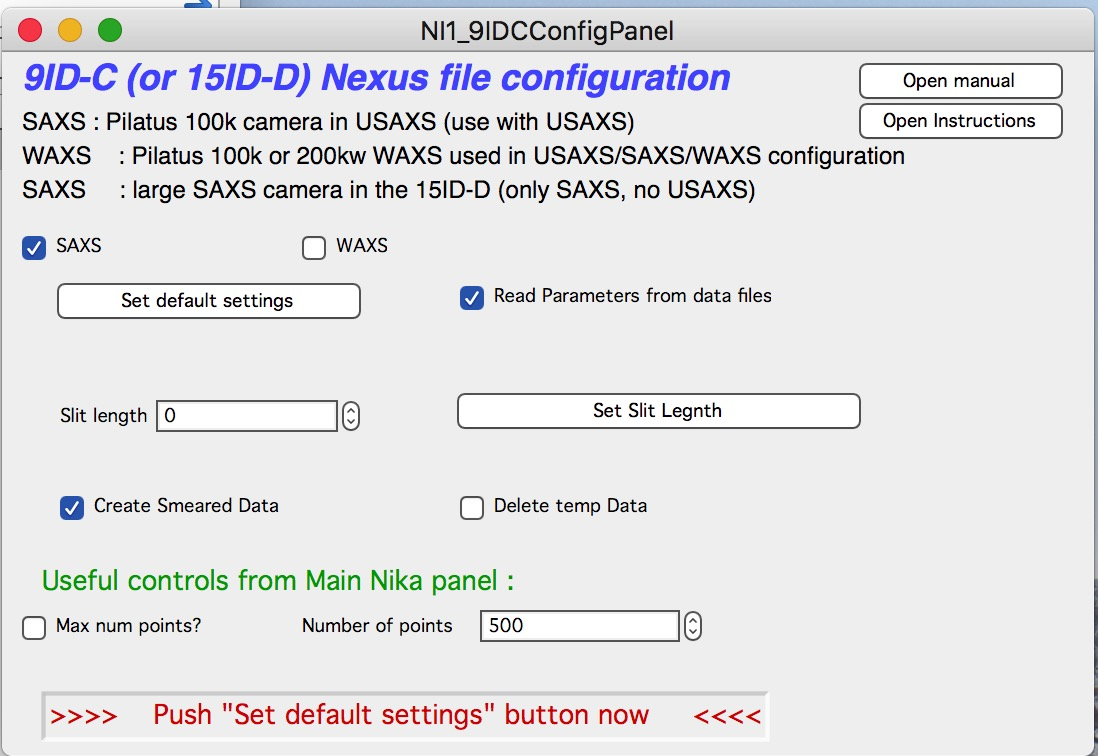
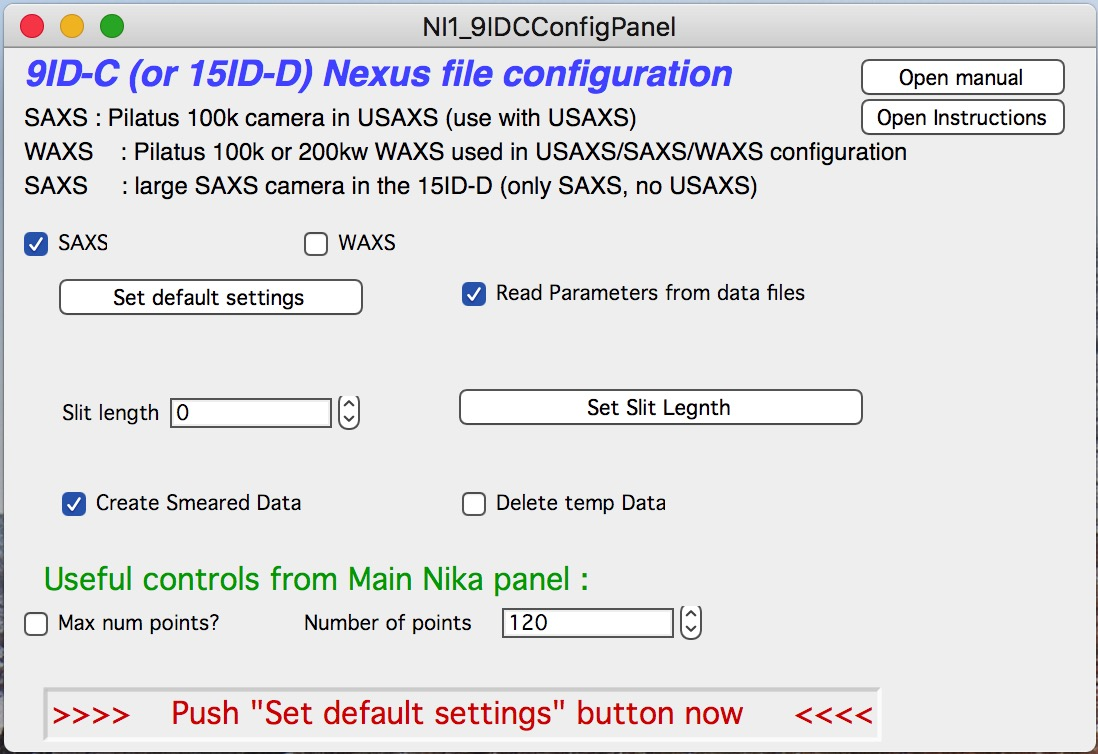
Indra manual
Added SAXS, WAXS and data merge to Indra manual

diff --git a/docs/source/Nika/Main.rst b/docs/source/Nika/Main.rst
@@ -23,15 +23,15 @@ Selecting data
 
 Nika can load number of different **Image types** - aka: file formats, file types - usually well described by file extension (e.g., tif). These are selected by "**Image type**" popup menu in top right corner. If appropriate file type is not found in the “Image type” popup menu, you will have to contact me so I can develop and add appropriate loader for your specific data. Note, that most data formats are binary data with some header, and if you can get description of your data format you can often use General Binary reader.
 
-Select appropriate type of data you have and then push “Select data path” button, dialog is presented, in which path to folder on the hard drive containing 2D images is selected. FInd the local path to data using this standard Igor dialog. and push OK when done.
+Select appropriate type of data you have and then push “Select data path” button, dialog is presented, in which path to folder on the hard drive containing 2D images is selected. Find the local path to data using this standard Igor dialog. and push OK when done.
 
-NOTE the “**Calibrated 2D data**?” checkbox. If selected, Nika expects 2D calibrated data – fully normalized and corrected data provided as one of the 2D formats, basically 2D image of Intensity, Q (vector), and uncertainity. Number of options is being current developed, the code currently handles EQSAXS (ORNL) and canSAS/Nexus. This part is under heavy development at this time, expect changes…
+NOTE the “**Calibrated 2D data**?” checkbox. If selected, Nika expects 2D calibrated data – fully normalized and corrected data provided as one of the 2D formats, basically 2D image of Intensity, Q (vector), and uncertainty. Number of options is being current developed, the code currently handles EQSAXS (ORNL) and canSAS/Nexus. This part is under heavy development at this time, expect changes…
 
 When valid path is selected, the Igor will check the folder and list all files of appropriate type (assuming the files have extensions) in the ListBox below the button.
 
 Here user can select one files, more files (by holding down shift key on Windows) and continuing selection (using the two pull down menus below the list Box)…
 
-Note, that from Nika ver. 1.66 Listoboxes have right click actions and users can refresh content and perform some functions from right click.
+Note, that from Nika ver. 1.66 Listboxes have right click actions and users can refresh content and perform some functions from right click.
 
 Use the “Match” field to mask the file names with Regular expression. To match part of the name, just use the string needed - so matching samples with \_15s in name, just add \_15s in the field. Regular expressions are very powerful, read on line how to use them.
 
@@ -52,7 +52,7 @@ Sort order
 
 Decides how the data are listed in the listbox. Options:
 
--  *None* – list as provided by OS.
+- *None* – list as provided by OS.
 - *Sort* – the old method. Alphabetical (but numerical order may get wrong)
 - *Sort2* – alphabetical, but taking care of sorting out smaller number before larger ones.
 - *\_001.* – this one assumes, that end of file name, before extension, is number. Before number you need to have “\_” and after number must be “.” followed by extension.
@@ -70,10 +70,10 @@ Using RegEx now. This is Grep language using regular expressions, very powerful.
 Side buttons
 ------------
 
-There are few buttnos next to the Listbox where user can select the data:
+There are few buttons next to the Listbox where user can select the data:
 
 Refresh:
- This button was removed in 1.66. The refresh and some other functionality was added to right click for most Listoboxes in Nika.
+ This button was removed in 1.66. The refresh and some other functionality was added to right click for most Listboxes in Nika.
 
 Save/Load Config
 ~~~~~~~~~~~~~~~~
@@ -123,7 +123,7 @@ Create Movie
 
 This opens panel, which is interface for ability to create movie from either 2D images or 1D lineouts…
 
-Note: The way this tool is designed, image is added every time any of the Convert butons is called. It is possible to use this tool to create movie from RAW data only manually (by manually adding each frame) when user wants to load the data inusing the “Ave & Display sel. files” button. Using this button you cannot use Automatic add function.
+Note: The way this tool is designed, image is added every time any of the Convert buttons is called. It is possible to use this tool to create movie from RAW data only manually (by manually adding each frame) when user wants to load the data in using the “Ave & Display sel. files” button. Using this button you cannot use Automatic add function.
 
 But the same result you can achieve by using convert buttons and simply not converting the data any way (not checking anything on “Main” tab and any of the “Sectors”, “Prev” and “LineProf” tabs. In this case you can add frames automatically, which is probably more useful…
 
@@ -146,7 +146,7 @@ The panel walks user through the steps necessary…
    c. 1D data. This is graph of the lineouts created by the code. NOTE: if you are creating more than one lineout from each image (like when using multiple sectors), all of these may be subsequently used! This may be good (movie of sequence of sectors on one image) or bad (for movies from many images). There is no way of skipping and using only specific sectors. Use Hook function to create that…
    You have relatively lot of controls of the graph, same as in the above options 1 and 2, as the data for this graph are a separate copy of your last data. When the old ones are overwritten, the new ones are “swapped” into the graph and replaced without modifications to the graph. So the graph should stay without major changes, unless set that way. For example, if Axis are set to auto scale, they may change. But if they are set to fixed start/end, they will stay fixed. At least I hope .
 
-   d. Use main 2D image. This one simply uses the Main 2D image. Seems very good choice - BUT: that image is recreated every time from scratch so there are very few controls available to user – you either like it and then use it, or you cannot use this method. You should, of course, use the controls on main panel to modify the image – like use RAwor Processed data, display sectors, beam center, colors, or Image with Q axes… That works, but you cannot control other things, such as zoom range etc.
+   d. Use main 2D image. This one simply uses the Main 2D image. Seems very good choice - BUT: that image is recreated every time from scratch so there are very few controls available to user – you either like it and then use it, or you cannot use this method. You should, of course, use the controls on main panel to modify the image – like use RAW or Processed data, display sectors, beam center, colors, or Image with Q axes… That works, but you cannot control other things, such as zoom range etc.
 
    e. Use user Hook function… This is advanced method. Here you can do whatever you want to create the image you want to append, just call the function: Movie\_UserHookFunction and if it exists, it will be called. This function MUST generate graph/image and leave it as the top image. This top image is added to the movie when called… Note: while this is advanced programming, this is way to get really what you want into the movie… Below is commented out example (present in the code also) which pulls up the main 2 D image and prints a note. You can add here any other formatting which you want to do or use…
 
@@ -190,7 +190,7 @@ Following dialog on Movie file control:
        :align: center
        :width: 380px
 
-Is Igor panel and here are your last chances to control what and how it gets created… I have limited information on what works best, so try this your self… Keep in mind, that while on PC you can create either mov file (Quicktime) or AVI file, it may be challenge to get avi files play on Mac. I suspect that considering the avi mess in video formats, you may have much better chance to play QUicktime movies (mov)… But there is no guarantee on unknown machines, that they will have Apple quicktime.
+Is Igor panel and here are your last chances to control what and how it gets created… I have limited information on what works best, so try this your self… Keep in mind, that while on PC you can create either mov file (Quicktime) or AVI file, it may be challenge to get avi files play on Mac. I suspect that considering the avi mess in video formats, you may have much better chance to play Quicktime movies (mov)… But there is no guarantee on unknown machines, that they will have Apple quicktime.
 
 Note, that every time Nika adds frame to the movie, it prints in the history area:
 

diff --git a/docs/source/Indra/MergeData.rst b/docs/source/Indra/MergeData.rst
@@ -10,29 +10,78 @@
 Merge USAXS/SAXS/WAXS data
 ==========================
 
-When you collect data on USAXS instrument, your data are saved in folders related to your "spec" file name. Spec file is where instrument makes various records. The file name is created by adding MM_DD_ (month_day_) to the name staff provides, typically to user name. When you collect USAXS data, a folder with the same name with appended "_usaxs" is created. For SAXS data we create folder with the same name with "_saxs" and for  WAXS with "_waxs". See below in the figure:
+When you reduce USAXS/SAXS/WAXS data, your data are saved in Igor folders related to your sample name.  USAXS data in root\:USAXS\:Samplename and SAXS data are in  root\:SAXS\:Samplename_u (or Samplename_270_30). To see inside of the current Igor experiment, use DataBrowser (ctrl-B or cmd-B). See below in the figure:
 
-.. image:: media/USAXSComputerDataArrangement.jpg
+.. image:: media/DataMerge1.jpg
         :align: center
-        :width: 480px
+        :width: 380px
 
-After you reduce data from USAXS instrument, you will have in your Igor experiment data arranged in data folders also - in this case you will have USAXS data in root\:USAXS\:Samplename.
-To see inside of the current Igor experiment, use DataBrowser (ctrl-B or cmd-B).
-
-.. image:: media/USAXSComputerDataArrangement.jpg
-        :align: center
-        :width: 480px
+Next we need to merge USAXS and SAXS data together. We will use Irena package tool "Merge two datasets" :ref:`Merge two datasets <data_merge>`.
 
 
 .. index::
-    USAXS data panel
+    USAXS-SAXS data merge
 
-Data reduction panel
---------------------
+Data Merging panel
+------------------
 
-Select "Load USAXS macros" from "Macros" menu. This will create "USAXS" menu and also open "Read me" notebook. Note, that it will take some time to compile the code, depending on the speed of your computer. Select "Import and reduced USAXS data" from the "USAXS menu".
+If needed, load Irena package by selecting "Load Irena SAS macros" from "Macros" menu. Select "Data Manipulation" from "SAS" menu, and from that submenu select "Merge two data sets".
 
-.. Figure:: media/DataReduction1.jpg
+
+.. Figure:: media/DataMerge2.jpg
+        :align: left
+        :width: 500px
+        :Figwidth: 820px
+
+This will load large panel:
+
+.. Figure:: media/DataMerge3.jpg
         :align: left
         :width: 800px
         :Figwidth: 820px
+
+To merge desmeared USAXS data with SAXS data, select as in the figure above. USAXS checkbox, DSM checkbox. Make sure you select root\:USAXS in the pull down menu. For second data set select QRS checkbox and root\:SAXS in the pul down menu. Note, that is you select DSM data for Data set 1, code should insert "_270" in the Data set 2 matchbox.
+
+If you want to merge slit smeared data, set as below:
+
+.. Figure:: media/DataMerge4.jpg
+        :align: left
+        :width: 400px
+        :Figwidth: 820px
+
+Note, that when you select "SMR colim?" checkbox for slit smeared data, the code will insert "_u" in the match field for second data set.
+
+Now we need to test settings for various controls for merging. Make sure the "Test mode" at the top above the right graph is set, other controls we will now set as needed:
+
+.. Figure:: media/DataMerge5.jpg
+        :align: left
+        :width: 600px
+        :Figwidth: 820px
+
+Double click on left column data set, pick some representative data set. This will add the data set into the graph in red color. Double click on same data set SAXS data in right column, this will add that data set in the black color in graph, plotted against right axis.
+
+.. Figure:: media/DataMerge6.jpg
+        :align: left
+        :width: 800px
+        :Figwidth: 820px
+
+First we need to select proper overlap region. Note the "Merge method" selection at the top of the window. Optimize Overlap is the best method, suitable when data scatter strongly enough in both SAXS and USAXS instruments and should be used if possible. If necessary, use more advanced methods (read about them in :ref:`Merge two datasets <data_merge>` or talk with beamline staff). We will use this basic method here. Select overlap using the round cursor (on black data set) and square cursor on red data set. Note, that data at Q values lower than position of round cursor are truncated from black data and data at Q values higher than square cursor are truncated from red data. There must be sufficient overlap region - or use the other merge methods.
+
+Next we need to pick which parameters will be optimized. Practically always we need to subtract *Data 1 background* and we need to get *Data 2 scaling* as selected by the two checkboxes on left top in the window. Sometimes we may need to also optimize the *Data 2 Q shift*.
+
+To test the merge procedure, push button "Process data". You get Data overlayed with blue curve which is the merged data. If needed, move cursors around until data look OK.
+
+.. Figure:: media/DataMerge7.jpg
+        :align: left
+        :width: 800px
+        :Figwidth: 820px
+
+Now you have few options. You can simply push button "Save data" (there are two, both are orange to show, that data were not saved). Or you can check checkbox "Merge mode" and Process data either individually (double click on a data set from left column, right column and data will be processed and optionally saved automatically) or Process data sequentially, when you select range of files in each column and code will merge them sequentially. Code selects first from left column and merges with first in right column, seconds with second etc. Note, they do not have to lineup on the same lines. You can make non continuous selection in each column. More in :ref:`Data Merge tool  <data_merge>` tool manual in Irena manual.  
+
+
+.. Figure:: media/DataMerge8.jpg
+        :align: left
+        :width: 800px
+        :Figwidth: 820px
+
+In the above picture I have merged Selected files together automatically by selecting them, setting top controls as you see above and pushing button "Process and save data".

diff --git a/docs/source/Indra/SAXSDataReduction.rst b/docs/source/Indra/SAXSDataReduction.rst
@@ -27,11 +27,11 @@ Reduced SAXS data arrangement
 After you reduce SAXS data, you will have in your Igor experiment data arranged in data folders also - in this case you will have SAXS data in root\:SAXS\:Samplename. These data use "QRS" naming :ref:`system <important.QRS>`.
 To see inside of the current Igor experiment, use DataBrowser (ctrl-B or cmd-B).
 
-.. image:: media/USAXSComputerDataArrangement.jpg
+.. image:: media/SAXSIgorDataArrangement.jpg
         :align: center
         :width: 480px
 
-
+**Please note, that in this picture you see for each sample data processed twice. Folders with data ending _270_30 are pinhole data and need to be merged later with Desmeared USAXS data. Data in folders ending _u are slit smeared SAXS data which are intended for merging with slit smeared USAXS data.**
 
 .. index::
     SAXS data reduction, Configuration
@@ -47,4 +47,45 @@ Select "Load Nika 2D SAS macros" from "Macros" menu, or preferably, load "USAXS,
         :width: 500px
         :Figwidth: 820px
 
-Select (or keep selected) checkbox "SAXS" and follow the instructions in the red letters. Keep other checkboxes selected as they are by default, more info later... First step is to push button "Set default settings". This will create dialog where you need to navigate to location of your SAXS data (see above about the data arrangement) and you need to select *any* data file from your samples, assuming there was no change in geometry for the data in that folder (distances, energy, etc.).
+Select (or keep selected) checkbox "SAXS" and follow the instructions in the red letters. Keep other checkboxes selected as they are by default, more info later... First step is to push button "Set default settings". This will create dialog where you need to navigate to location of your SAXS data (see above about the data arrangement) and you need to select *any* data file from your samples, assuming there was no change in geometry for the data in that folder (distances, energy, etc.). So select a file (see below) and click Open
+
+
+.. Figure:: media/SAXSSelectNXDataFile.jpg
+        :align: left
+        :width: 500px
+        :Figwidth: 820px
+
+Nika will open selected file and read from this file all calibration values we have included in each of the files. Few more things will happen at the same time:
+
+1.  All parameters will be read and inserted in proper Nika fields.
+2.  Nika will scan for existing USAXS data and if it finds the data (it will pick random USAXS folder) it will look if there are desmeared data (DSM_Int etc.) or slit smeared data (SMR_Int). If there are desmeared data, it will switch off Slit smearing (uncheck the checkbox on the panel). If it find only slit smeared data, it will check this checkbox to generate appropriate (slit smeared) SAXS data. In any case, if it finds any USAXS data, it will insert proper slit length in the proper field.
+3.  Nika will open the selected image and display it.
+4.  Nika will set proper selection of checkboxes for calibration and insert proper names of lookup functions, which find/calculate for each sample thickness, transmission, and normalization values. Nika will create default Mask. 
+5.  **IMPORTANT** - by default Nika is set to produce 120 Q bins, log-q spaced (reduction from about 500 points which it would have with max q resolution). This is correct for small-angle scattering where it reduces noise at high-q, but incorrect if you have diffraction peaks in this Q range and need to have high resolution. If that is the case, select "Max num points?" checkbox.
+6.  Nika will display for user the tab, where user needs to find the correct "Blank" - aka: "Empty" - for the samples user wants to reduce.
+
+Next step is to select the proper Blank - if needed, right click in the panel and select "Match Blank" or whatever else needed. Either double click on the file or select the file and click "Load Empty".
+
+.. Figure:: media/SAXSBlankSelection.jpg
+        :align: left
+        :width: 500px
+        :Figwidth: 820px
+
+Blank file will be loaded and displayed. Please note, that user needs to select proper Blank/empty file for each range of samples. So do not forget to change it if necessary.
+
+.. Figure:: media/SAXSSampleBlankLoaded.jpg
+        :align: left
+        :width: 700px
+        :Figwidth: 820px
+
+Here is example of Sample and Blank loaded and displayed side-by-side.
+
+Next is simply - select sample or samples which should be processed and click on button "Process images". Nika will process all selected files. In the demo I have processed USAXS data with desmearing and Nika is therefore processing my SAXS data in pinhole collimation only. These will result in folders with names ending _270_30. Data with folders named with _u at the end are slit smeared.
+
+
+.. Figure:: media/SAXSProcessedDataImg.jpg
+        :align: left
+        :width: 700px
+        :Figwidth: 820px
+
+OK, next step is to reduce WAXS data (if collected) and - or - merge USAXS and SAXS data together. See other chapters how to :ref:`switch configuration <switch_nika_configurations>` and :ref:`reduce WAXS <reduce_WAXS_data_procedure>`.

diff --git a/docs/source/Indra/WAXSDataReduction.rst b/docs/source/Indra/WAXSDataReduction.rst
@@ -23,16 +23,69 @@ To see inside of the current Igor experiment, use DataBrowser (ctrl-B or cmd-B).
         :align: center
         :width: 480px
 
+Reduced WAXS data arrangement
+=============================
+
+After you reduce WAXS data, you will have in your Igor experiment data arranged in data folders also - in this case you will have SAXS data in root\:WAXS\:Samplename. These data use "QRS" naming :ref:`system <important.QRS>`.
+To see inside of the current Igor experiment, use DataBrowser (ctrl-B or cmd-B).
+
+.. image:: media/WAXSIgorDataArrangement.jpg
+        :align: center
+        :width: 480px
+
+**Folders with data ending _C are pinhole data reduced with highest possible q resolution as necessary for WAXS.**
+
 
 .. index::
-    USAXS data panel
+    WAXS data reduction panel
 
-Data reduction panel
---------------------
+WAXS data reduction
+===================
 
-Select "Load USAXS macros" from "Macros" menu. This will create "USAXS" menu and also open "Read me" notebook. Note, that it will take some time to compile the code, depending on the speed of your computer. Select "Import and reduced USAXS data" from the "USAXS menu".
+Data reduction for this instrument is done using  :ref:`Nika package <Introduction_Nika>`. You need to have Nika package :ref:`installed <Installation>`.
+Select "Load Nika 2D SAS macros" from "Macros" menu, or preferably, load "USAXS, Irena and Nika" which will load all there packages. This will create "SAS2D" menu. Note, that it will take some time to compile the code, depending on the speed of your computer. Select from "Instrument Configurations" menu in SAS2D first item : "9IDC or 15IDD USAXS-SAXS-WAXS". This will create panel which can be used to configure Nika package to use on our instrument.
 
-.. Figure:: media/DataReduction1.jpg
+.. Figure:: media/WAXSReductionConfig.jpg
         :align: left
-        :width: 800px
+        :width: 500px
+        :Figwidth: 820px
+
+Select (or keep selected) checkbox "WAXS" and follow the instructions in the red letters. Keep other checkboxes selected as they are by default, more info later... First step is to push button "Set default settings". This will create dialog where you need to navigate to location of your WAXS data (see above about the data arrangement) and you need to select *any* data file from your samples, assuming there was no change in geometry for the data in that folder (distances, energy, etc.). So select a file (see below) and click Open.
+
+
+.. Figure:: media/WAXSSelectNXDataFile.jpg
+        :align: left
+        :width: 500px
+        :Figwidth: 820px
+
+Nika will open selected file and read from this file all calibration values we have included in each of the files. Few more things will happen at the same time:
+
+1.  All parameters will be read and inserted in proper Nika fields.
+2.  Nika will open the selected image and display it.
+3.  Nika will set proper selection of checkboxes for calibration and insert proper names of lookup functions, which find/calculate for each sample thickness, transmission, and normalization values. Nika will create default Mask.
+4.  **IMPORTANT** - by default Nika is set to use Q for x-axis. This is useful if you want to merge USAXS+SAXS+WAXS data together. If you want, you can use two-theta or d spacing for x-axis. Note, that for Diffraction tool in Irena this is not important (it converts any x-axis to two-theta) and for export to GSAS-II compatible file also (it also converts to two-theta).
+5.  Nika will display for user the tab, where user needs to find the correct "Blank" - aka: "Empty" - for the samples user wants to reduce.
+
+Next step is to select the proper Blank - if needed, right click in the panel and select "Match Blank" or whatever else needed. Either double click on the file or select the file and click "Load Empty".
+
+.. Figure:: media/WAXSBlankSelection.jpg
+        :align: left
+        :width: 500px
+        :Figwidth: 820px
+
+Blank file will be loaded and displayed. Please note, that user needs to select proper Blank/empty file for each range of samples. So do not forget to change it if necessary.
+
+.. Figure:: media/WAXSSampleBlankLoaded.jpg
+        :align: left
+        :width: 700px
+        :Figwidth: 820px
+
+Here is example of Sample and Blank loaded and displayed side-by-side.
+
+Next is simply - select sample or samples which should be processed and click on button "Process images". Nika will process all selected files. .
+
+
+.. Figure:: media/WAXSProcessedDataImg.jpg
+        :align: left
+        :width: 700px
         :Figwidth: 820px

diff --git a/docs/source/Indra/FlyscanDataReduction.rst b/docs/source/Indra/FlyscanDataReduction.rst
@@ -58,7 +58,7 @@ This chapter walks reader through very simple (basic) reduction of USAXS data co
 
 Flyscanning is the most common method of data collection for the USAXS part of the USAXS/SAXS/WAXS instrument. If you were NOT told you used step scanning method, you probably used Flyscanning. *If you collected data using step scanning, see separate chapter.* Following this chapter on USAXS data reduction will be chapter on SAXS and then WAXS data reduction. Followed by merge data procedure. Note, that SAXS and WAXS data reduction uses Nika package and merging uses Irena package.
 
-*If you collected data using step scanning, see separate chapter.*
+>> *If you collected data using step scanning, see separate chapter.* <<
 
 
 Select "Load USAXS macros" from "Macros" menu. This will create "USAXS" menu and also open "Read me" notebook. Note, that it will take some time to compile the code, depending on the speed of your computer. Select "Import and reduced USAXS data" from the "USAXS menu".
@@ -135,10 +135,10 @@ Note that now there are two versions of your subtracted (and calibrated data). O
 
 Ignore most other stuff in the graph - the little dots are normalized residuals which we get if we slit smear the desmeared data and compare them with original slit smeared version. Ideally these are randomly distributed between +1 and -1. There are no controls in this desmearing tool, so if you need to handle cases where this routine does not work well enough, you need to save only slit smeared data and use dedicated package in irena, where you have a lot more controls. Note, that desmearing often (always) adds noise to the data,. Desmeared version will ALWAYS be more noisy. If you have noisy data to start, desmearing may make them unusable. If you plan to use Irena, there is no major reason to desmear the data, expect for presentation purposes. Irena has slit smearing of model built in.
 
-Important - sample specific - check
-===================================
+Important - Qmin range - check
+==============================
 
-**This step is critical and important!**
+**This is critical and important! - this is also SAMPLE SPECIFIC and each sample (or range of samples) may need different Qmin**
 
 1.    It is critical to set the rounded cursor on the main graph (cursor "A") correctly. This is sample dependent - the rounded cursor on the log-log Intensity vs q curve defines starting point in which we start with data subtraction. Note, that instrumental curve is raising at low-q values around Q^-8 or so. With this steep raise there can be observable linear difference in intensity, which has very high uncertainties. In the above graphs the round cursor is set to instrument resolution, but sample scattering at that q is weak. While the data look OK, their reliability is probably not very good. User needs to correct this and select starting point, where the sample intensity clearly deviates from instrumental background curve. This varies sample-per-sample. This is important USER FUNCTION and no code can handle this for users. In this case we need to move cursor few points higher to make sure the data we are getting are reliable and robust. You want there be clearly observable difference between sample and blank where the cursor is... See below.
 2.    Check for multiple scattering. Many samples (mainly powders) exhibit multiple scattering. Complicated for this place, but you need to check and if needed, ask staff. Samples will exhibit multiple scattering if the FWHM (full width of half maximum) of the peak profile fit for sample is significantly wider than Blank. If it is more than 20% wider, ask. At this energy (21keV) the FWHM for Blank and this sample are both ~2 arc seconds, so in this case if sample is 2.4 arc second or more, **ask, ask!**. FWHM is energy dependent, it may be different if you collect data at other energies.

diff --git a/docs/source/Indra/SwitchNikaConfigurations.rst b/docs/source/Indra/SwitchNikaConfigurations.rst
@@ -1,0 +1,49 @@
+.. _switch_nika_configurations:
+
+
+.. index::
+    Switch Nika Configurations
+
+Switch Nika Configurations
+==========================
+
+In order to be able to reduce both SAXS and WAXS data in one Igor experiment we need to have two Nika configurations available. However, only one Nika configuration (for SAXS or WAXS) can be available at any given time. To do this we will use Nika's Configuration manager tool :
+
+.. image:: media/Configurationmanagermenu.jpg
+        :align: center
+        :width: 280px
+
+Select this menu item and you will get panel:
+
+.. image:: media/ConfigurationManager1.jpg
+        :align: center
+        :width: 380px
+
+Now we can select "Create New Configuration". Nika will ask, if we want to save current configuration - and if you want to reduce again SAXS data, you should do so. You need to give the existing (SAXS) configuration a name - I suggest SAXS.
+
+.. Figure:: media/ConfigurationManager2.jpg
+        :align: left
+        :width: 380px
+        :Figwidth: 820px
+
+.. Figure:: media/ConfigurationManager3.jpg
+        :align: left
+        :width: 380px
+        :Figwidth: 820px
+
+And Nika will be restarted with new, unconfigured Nika. If 9ID configuration panel is opened, it will be reopened again.
+
+Next step is to configure and reduce WAXS data. After you are done with WAXS data you can save the WAXS configuration.
+
+You can return to any saved configuration by selecting it in the pull down menu, in the example below I have saved SAXS and WAXS configurations and can switch Nika between them:
+
+.. Figure:: media/ConfigurationManager4.jpg
+        :align: left
+        :width: 380px
+        :Figwidth: 820px
+
+Nika will ask if you want to save the current configuration (you can give it new name or overwrite any existing one). Keep track of these configurations and keep it simple...
+
+**NOTE: Configurations take a lot of space in Igor experiments. Do not have too many Nika configurations saved as files may get excessively large.**
+
+Next step is to :ref:`reduce WAXS <reduce_WAXS_data_procedure>`.

diff --git a/docs/source/Indra/index.rst b/docs/source/Indra/index.rst
@@ -14,6 +14,7 @@ Manual |release| for Indra (USAXS data reduction) version 1.93 for Igor 7.05 and
    FlyscanDataReduction
    StepscanDataReduction
    SAXSDataReduction
+   SwitchNikaConfigurations
    WAXSDataReduction
    MergeData
 
